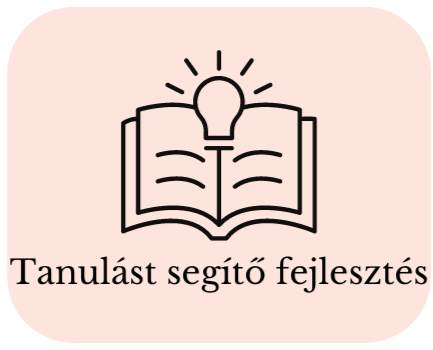
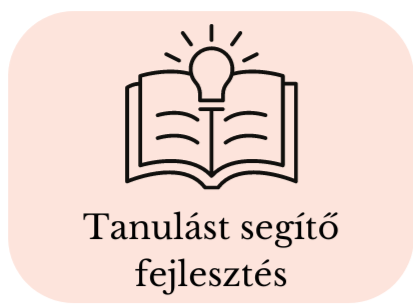
fixes

diff --git a/src/components/translations.js b/src/components/translations.js
@@ -1,3 +1,19 @@
+import card1 from '../images/card1.PNG'
+import card2 from '../images/card2.PNG'
+import card3 from '../images/card3.PNG'
+import card4 from '../images/card4.PNG'
+import card5 from '../images/card5.PNG'
+import card1de from '../images/card1-de.PNG'
+import card2de from '../images/card2-de.PNG'
+import card3de from '../images/card3-de.PNG'
+import card4de from '../images/card4-de.PNG'
+import card5de from '../images/card5-de.PNG'
+import card1en from '../images/card1-en.PNG'
+import card2en from '../images/card2-en.PNG'
+import card3en from '../images/card3-en.PNG'
+import card4en from '../images/card4-en.PNG'
+import card5en from '../images/card5-en.PNG'
+
 export const translations = {
     en: {
       nav: {
@@ -20,7 +36,13 @@ export const translations = {
         tel: "Phone Consultation",
         fac: "In-Person Meeting",
         tog: "Start of Collaboration",
-        p4: "Take the first step! Contact me by phone, WhatsApp, or email so we can discuss how I can help your child."
+        p4: "Take the first step! Contact me by phone, WhatsApp, or email so we can discuss how I can help your child.",
+        card1: card1en,
+        card2: card2en,
+        card3: card3en,
+        card4: card4en,
+        card5: card5en,
+
       },
 
       slider: {
@@ -62,7 +84,12 @@ export const translations = {
         tel: "Telefonische Beratung",
         fac: "Persönliches Treffen",
         tog: "Beginn der Zusammenarbeit",
-        p4: "Mache den ersten Schritt! Kontaktiere mich telefonisch, über WhatsApp oder per E-Mail, um zu besprechen, wie ich dir und deinem Kind helfen kann."
+        p4: "Mache den ersten Schritt! Kontaktiere mich telefonisch, über WhatsApp oder per E-Mail, um zu besprechen, wie ich dir und deinem Kind helfen kann.",
+        card1: card1de,
+        card2: card2de,
+        card3: card3de,
+        card4: card4de,
+        card5: card5de,
       },
 
       slider: {
@@ -104,7 +131,12 @@ export const translations = {
         tel: "Telefonos konzultáció",
         fac: "Személyes találkozó",
         tog: "Együttműködés megkezdése",
-        p4: "Tedd meg az első lépést! Keress meg telefonon, WhatsApp-on vagy e-mailben, hogy megbeszéljük, hogyan tudok segíteni gyermekednek."
+        p4: "Tedd meg az első lépést! Keress meg telefonon, WhatsApp-on vagy e-mailben, hogy megbeszéljük, hogyan tudok segíteni gyermekednek.",
+        card1: card1,
+        card2: card2,
+        card3: card3,
+        card4: card4,
+        card5: card5,
       },
 
       slider: {

diff --git a/src/components/UserReview.jsx b/src/components/UserReview.jsx
@@ -9,7 +9,7 @@ import img8 from "../images/img8.JPG"
 
 const cardData = [
     { id: 1, review: '“Nagyon alapos felmérést végzettel a gyermekeknél. Játékos feladatok voltak, az együttműködés is nagyon jól ment. A fejlesztés is szuper!”'},
-    { id: 2, review: '“A kisfiam járt Titához, a foglalkozás minden percét élvezte, mi szülők is nagyon sok támogatástkaptunk Titától nem csakszakmailag, hanem emberileg is. Sok nehéz pillanatban tartott meg minket. És ami a legfontosabb a kisfiam nagyon sokat fejlődött a közös munka során. Lelkiismeretes és elhivatott szakember, én nagyon jó szívvel tudom őt ajánlani!“'},
+    { id: 2, review: '“A kisfiam járt Titához, a foglalkozás minden percét élvezte, mi szülők is nagyon sok támogatást kaptunk Titától nem csak szakmailag, hanem emberileg is. Sok nehéz pillanatban tartott meg minket. És ami a legfontosabb a kisfiam nagyon sokat fejlődött a közös munka során. Lelkiismeretes és elhivatott szakember, én nagyon jó szívvel tudom őt ajánlani!“'},
     { id: 3, review: '“Gyermekcentrikus, türelmes, megbízható, ügyesen teremt kapcsolatot a gyerekekkel. A gyerekek gyorsan oldódnak a közelèben. Kreatív feladatokkal, jàtèkosan fejleszti, tanítja a gyerekeket. Mi kèt gyerekkel jàrunk hozzà rendszeresen. A gyerekek mindig vàrjàk a fogalkozásokat,szívesen vesznek rèszt a foglalkozásokon. Csak ajánlani tudom Őt.”'},
     { id: 4, review: '“Titanilla a legnagyobb szeretettel , türelemmel és szaktudással vezeti minden egyes foglalkozását. Minden találkozó után látszik a fejlődés a kislányunkon. Nagyon sokat köszönhetünk neki. Mindenkinek csak ajánlani tudom.”'},
     {id: 5, review: '“Mindenkinek nyugodt szívvel ajánlom Titanillát és a foglalkozását. Rendkívül gyerekszerető, kedves és türelmes. A kisfiam azonnal a szívébe zárta, nekünk pedig nagyon szimpatikus lett. A gyermekem mindig nagyon várja a közös találkozásokat.Láthatóan sokat fejlődött és ez nagy örömmel tölt el minket. Keressétek bizalommal .”'}

diff --git a/src/components/MainPage.jsx b/src/components/MainPage.jsx
@@ -9,11 +9,6 @@ import step2 from '../images/step2.PNG'
 import step3 from '../images/step3.PNG'
 import step4 from '../images/step4.PNG'
 import rarrow from '../images/r-arrow.PNG'
-import card1 from '../images/card1.PNG'
-import card2 from '../images/card2.PNG'
-import card3 from '../images/card3.PNG'
-import card4 from '../images/card4.PNG'
-import card5 from '../images/card5.PNG'
 import { useLanguage } from './LanguageContext';
 
 
@@ -42,11 +37,11 @@ const MainPage = () => {
       </div>
 
       <div className="p-back scale">
-          <img src={card1} className="icon"/>
-          <img src={card2} className="icon"/>
-          <img src={card3} className="icon"/>
-          <img src={card4} className="icon"/>
-          <img src={card5} className="icon"/>
+          <img src={translations[language].main.card1} className="icon"/>
+          <img src={translations[language].main.card2} className="icon"/>
+          <img src={translations[language].main.card3} className="icon"/>
+          <img src={translations[language].main.card4} className="icon"/>
+          <img src={translations[language].main.card5} className="icon"/>
       </div>
 
       <div className='top-margin'>

diff --git a/src/components/MainPage.css b/src/components/MainPage.css
@@ -11,21 +11,6 @@
     gap: 10%;
 }
 
-.main-content-left {
-    display: flex;
-    align-items: center;
-    margin: 10px;
-    gap: 300px;
-}
-
-.main-content-right {
-    display: flex;
-    align-items: center;
-    justify-content: flex-end;
-    right: 10px;
-    margin: 10px;
-    gap: 300px;
-}
 
 .main-content img {
     margin: 0 30px;
@@ -181,6 +166,7 @@
 @media only screen and (max-width: 480px) {
     
     .main-contents{
+        display: block;
         margin-top: 130px;
     }
     
@@ -188,6 +174,8 @@
         display: block;
         width: 90%;
         text-align: center;
+        margin-left: auto;
+        margin-right: auto;
     }
 
     .main-content img {
@@ -197,6 +185,7 @@
     }
 
     .main-content p {
+        display: block;
         font-size: 14px;
         width: 100%;
         margin: auto;

diff --git a/src/components/Navbar.css b/src/components/Navbar.css
@@ -137,6 +137,11 @@ nav button:hover {
     nav ul li {
         display: block;
         margin: 25px 40px;
+        text-align: center;
+    }
+
+    nav ul li:first-child {
+        margin-top: 70px;
     }
 
     .menu-icon {
